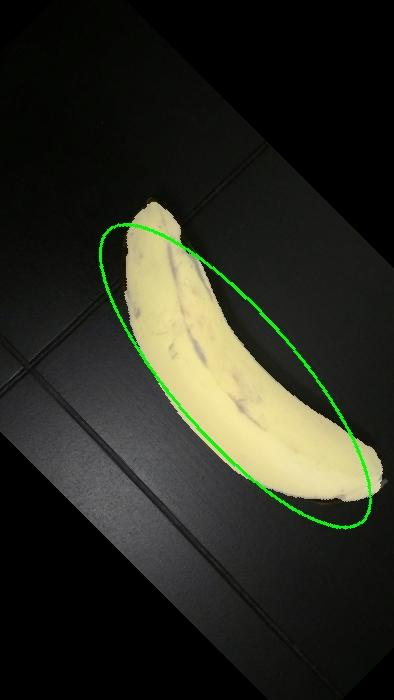
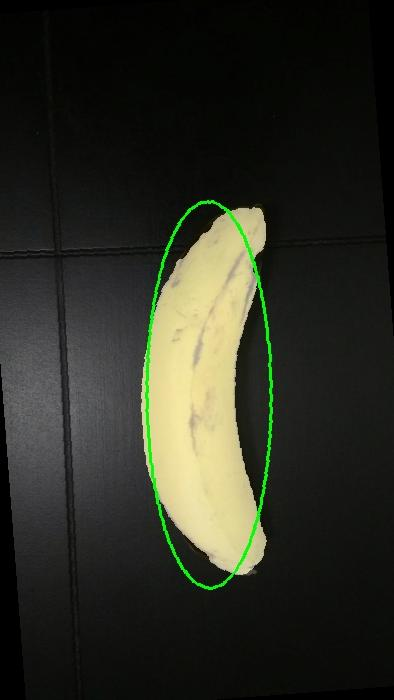
terminado el ajuste de direccion a cualquier foto

diff --git a/reconocimientoColor/dibujarBanano.py b/reconocimientoColor/dibujarBanano.py
@@ -4,6 +4,7 @@ import numpy as np
 #import numpy for scientific calculations
 from matplotlib import pyplot as plt
 #display the image
+from PIL import Image
 
 
 green=(0,255,0)
@@ -34,11 +35,11 @@ def circle_contour(image,contour):
 	ellipse=cv2.fitEllipse(contour)
 	print (contour[0])
 	global centros
-	global angulos
-	global tam
+	global distancias
+	global angulo
 	centros = ellipse[0]
-	angulos = ellipse[1]
-	tam = ellipse[2]
+	distancias = ellipse[1]
+	angulo = ellipse[2]
 
 	cv2.ellipse(image_with_ellipse,ellipse,green,2,1)
 
@@ -110,6 +111,11 @@ def draw_banana(image):
 banana=cv2.imread('banana.jpg')
 result_banana=draw_banana(banana)
 cv2.imwrite('banana_new.jpg',result_banana)
-print ("Centros		",centros)
-print ("Distancias	",angulos)
-print ("Angulos		",tam)
+print ("Centro		",centros)
+print ("Distancias	",distancias)
+print ("Angulo		",angulo)
+
+
+rotImg = Image.open("banana_new.jpg")
+rotImg2 = rotImg.rotate(angulo)
+rotImg2.save("img2.jpg")
